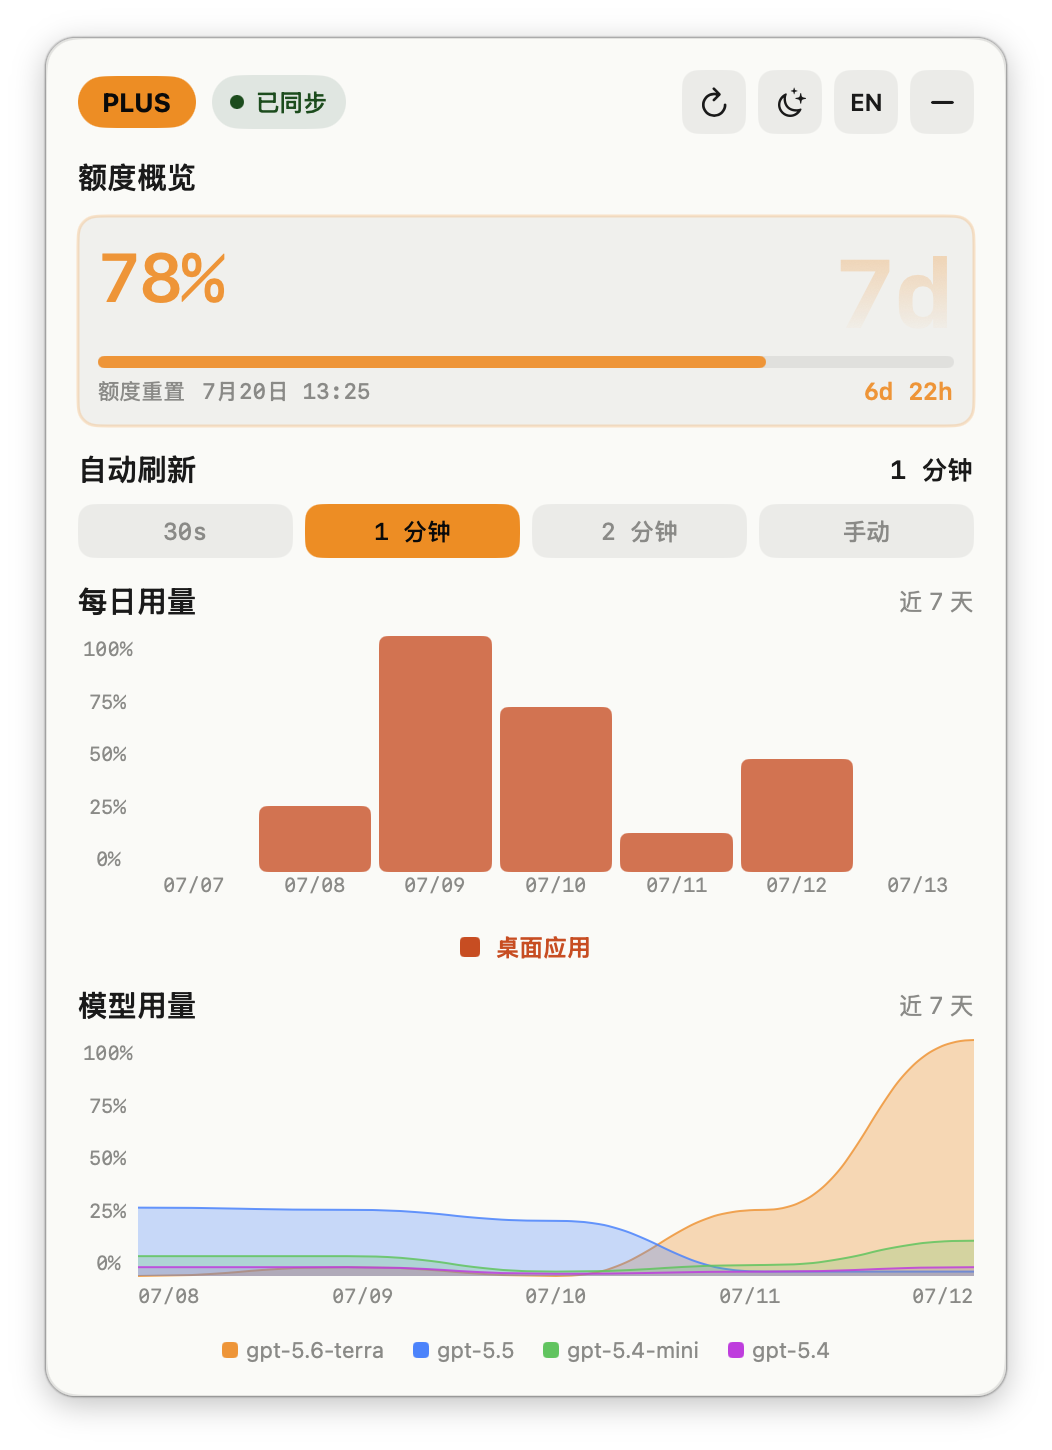
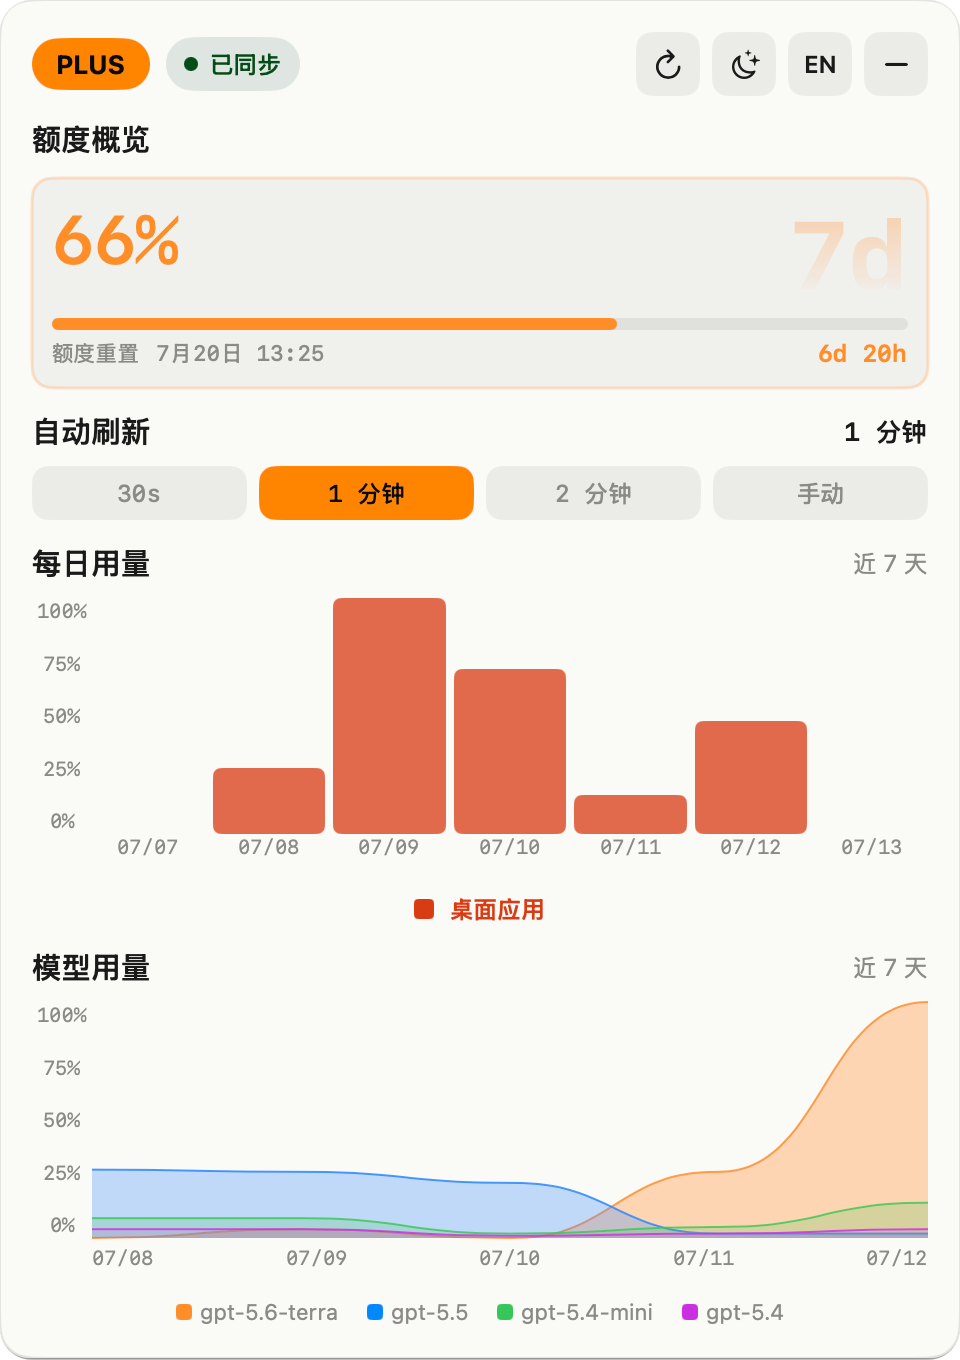
补充菜单栏与主题界面截图

diff --git a/README.md b/README.md
@@ -17,6 +17,27 @@
   <img src="Assets/Screenshots/dashboard.png" width="526" alt="Codex Quota Menu Bar 额度面板截图">
 </p>
 
+## 界面预览
+
+### 菜单栏与悬浮球
+
+<p align="center">
+  <img src="Assets/Screenshots/menu-bar-orb.png" width="215" alt="Codex Quota Menu Bar 菜单栏与悬浮球效果">
+</p>
+
+### 浅色与深色主题
+
+<table>
+  <tr>
+    <td align="center"><strong>浅色主题</strong></td>
+    <td align="center"><strong>深色主题</strong></td>
+  </tr>
+  <tr>
+    <td><img src="Assets/Screenshots/dashboard.png" alt="Codex Quota Menu Bar 浅色主题面板"></td>
+    <td><img src="Assets/Screenshots/dashboard-dark.png" alt="Codex Quota Menu Bar 深色主题面板"></td>
+  </tr>
+</table>
+
 ## 功能亮点
 
 - 按服务实际返回结果显示额度窗口，不假定一定同时存在 5 小时和 7 天窗口。

diff --git a/README_EN.md b/README_EN.md
@@ -17,6 +17,27 @@
   <img src="Assets/Screenshots/dashboard.png" width="526" alt="Codex Quota Menu Bar dashboard">
 </p>
 
+## Interface Preview
+
+### Menu Bar and Floating Orb
+
+<p align="center">
+  <img src="Assets/Screenshots/menu-bar-orb.png" width="215" alt="Codex Quota Menu Bar menu bar and floating orb">
+</p>
+
+### Light and Dark Themes
+
+<table>
+  <tr>
+    <td align="center"><strong>Light theme</strong></td>
+    <td align="center"><strong>Dark theme</strong></td>
+  </tr>
+  <tr>
+    <td><img src="Assets/Screenshots/dashboard.png" alt="Codex Quota Menu Bar light theme dashboard"></td>
+    <td><img src="Assets/Screenshots/dashboard-dark.png" alt="Codex Quota Menu Bar dark theme dashboard"></td>
+  </tr>
+</table>
+
 ## Highlights
 
 - Displays the quota windows actually returned by the service instead of assuming both 5-hour and 7-day windows are always present.